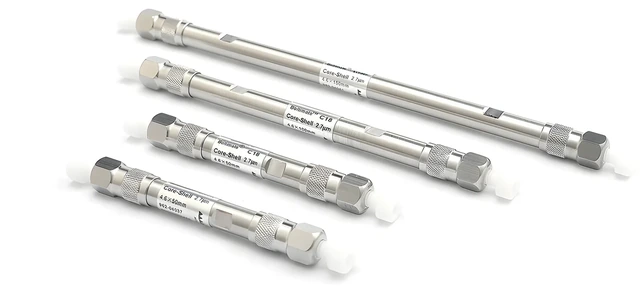
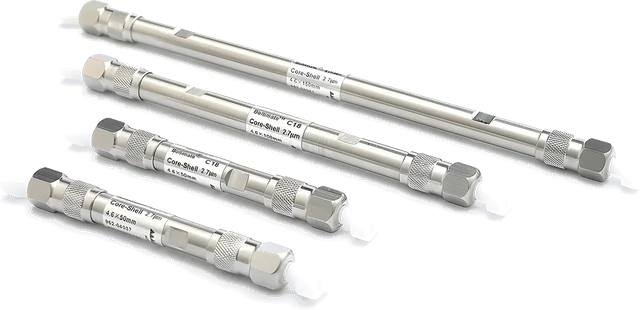
Home products: 8 cards (4 + 4, two per row on phones), Bio-Techne and CELLiST added, every photo transparent
The Columns photo is cut out (no white box); Flash is replaced by Welch vials & syringe filters, whose photo is a clean cut-out.

Changed region(s): [[0.0, 0.0, 0.9688, 0.9931]]

diff --git a/index.html b/index.html
@@ -111,11 +111,13 @@
       <div class="sec-cta"><p class="intro">Chromatography, bioprocess and analytical systems from the manufacturers we represent.</p><a href="products.html" class="btn btn-primary btn-lg">All products <svg><use href="#ic-arrow"/></svg></a></div>
     </div>
     <div class="pp">
-      <a href="cat-hplc-uhplc-gc-columns.html" class="pp-card" style="--c:#DCE6FA"><i></i><img class="blend" src="images/products/sm/columns.webp" alt="Chromatography Columns" loading="lazy"><small>Welch Materials</small><strong>Chromatography Columns</strong><span>Welch HPLC columns are built on advanced particle surface modification.</span><em>Read more <svg><use href="#ic-arrow"/></svg></em></a>
+      <a href="cat-hplc-uhplc-gc-columns.html" class="pp-card" style="--c:#DCE6FA"><i></i><img class="" src="images/products/sm/columns.webp" alt="Chromatography Columns" loading="lazy"><small>Welch Materials</small><strong>Chromatography Columns</strong><span>Welch HPLC columns are built on advanced particle surface modification.</span><em>Read more <svg><use href="#ic-arrow"/></svg></em></a>
       <a href="cat-biologics-characterization.html" class="pp-card" style="--c:#E3DFFA"><i></i><img class="" src="images/products/sm/stunner.webp" alt="Bio Instruments" loading="lazy"><small>Unchained Labs · FlowCam · RainSure</small><strong>Bio Instruments</strong><span>Helping biologics and gene therapy researchers break free from tools that just don’t cut it.</span><em>Read more <svg><use href="#ic-arrow"/></svg></em></a>
       <a href="cat-preparative-flash-dac.html" class="pp-card" style="--c:#D6EBF7"><i></i><img class="" src="images/products/sm/lc.webp" alt="Preparative HPLC &amp; DAC Column" loading="lazy"><small>Welch Materials</small><strong>Preparative HPLC &amp; DAC Column</strong><span>Welch Preparative Chromatography Systems are engineered for exceptional purification performance.</span><em>Read more <svg><use href="#ic-arrow"/></svg></em></a>
       <a href="cat-bioprocess-systems.html" class="pp-card" style="--c:#E2E7F3"><i></i><img class="" src="images/products/sm/oligo.webp" alt="Oligonucleotide Synthesizer" loading="lazy"><small>Inscinstech</small><strong>Oligonucleotide Synthesizer</strong><span>Unique AutoOligo® 25–150, a large-scale bench and pilot synthesizer.</span><em>Read more <svg><use href="#ic-arrow"/></svg></em></a>
-      <a href="cat-preparative-flash-dac.html" class="pp-card" style="--c:#D6EBF7"><i></i><img class="round" src="images/products/sm/flash.webp" alt="Flash Chromatography" loading="lazy"><small>Welch Materials</small><strong>Flash Chromatography</strong><span>WelFlash® cartridges are engineered for fast and efficient preparative chromatography.</span><em>Read more <svg><use href="#ic-arrow"/></svg></em></a>
+      <a href="cat-reagents-elisa.html" class="pp-card" style="--c:#E3DFFA"><i></i><img class="" src="images/products/sm/biotechne.webp" alt="Bio-Techne antibodies and ELISA kits" loading="lazy"><small>Bio-Techne</small><strong>Reagents &amp; ELISA Kits</strong><span>R&amp;D Systems antibodies, proteins and immunoassays for research and bioprocess.</span><em>Read more <svg><use href="#ic-arrow"/></svg></em></a>
+      <a href="cat-lab-consumables-equipment.html" class="pp-card" style="--c:#D6EBF7"><i></i><img class="" src="images/products/sm/consumables.webp" alt="Welch vials and syringe filters" loading="lazy"><small>Welch Materials</small><strong>Vials &amp; Syringe Filters</strong><span>Welch sample vials, caps and syringe filters for everyday chromatography work.</span><em>Read more <svg><use href="#ic-arrow"/></svg></em></a>
+      <a href="cat-cell-culture-media-feeds.html" class="pp-card" style="--c:#F6E1E6"><i></i><img class="" src="images/products/sm/cellist.webp" alt="Ajinomoto CELLiST cell culture media" loading="lazy"><small>Ajinomoto CELLiST</small><strong>Cell Culture Media &amp; Feeds</strong><span>CELLiST basal media and feeds for CHO-based antibody production.</span><em>Read more <svg><use href="#ic-arrow"/></svg></em></a>
       <a href="cat-bioprocess-systems.html" class="pp-card" style="--c:#DCE6FA"><i></i><img class="" src="images/products/sm/fplc.webp" alt="Protein Purification System (FPLC)" loading="lazy"><small>Inscinstech</small><strong>Protein Purification System (FPLC)</strong><span>The AutoPure Protein Purification System is designed for laboratory-scale biopharmaceutical purification.</span><em>Read more <svg><use href="#ic-arrow"/></svg></em></a>
     </div>
   </div>

diff --git a/home-2.css b/home-2.css
@@ -266,7 +266,7 @@
 /* ############ Picked designs: products A, categories A, about A, partners B, contact A ############ */
 
 /* ---------- Products: pop-out cards ---------- */
-.pp { display: grid; grid-template-columns: repeat(3, 1fr); gap: 86px 18px; padding-top: 64px; }
+.pp { display: grid; grid-template-columns: repeat(4, 1fr); gap: 86px 18px; padding-top: 64px; }
 .pp-card { position: relative; display: flex; flex-direction: column; padding: 132px 26px 26px; border-radius: 26px; background: #fff; border: 1px solid #E3E9F6; transition: background .35s, border-color .35s, transform .45s var(--ease), box-shadow .45s var(--ease); }
 .pp-card i { position: absolute; left: 50%; top: -44px; width: 168px; height: 168px; border-radius: 50%; transform: translateX(-50%); background: var(--c, #DCE6FA); transition: transform .5s var(--ease), background .35s; }
 .pp-card img { position: absolute; left: 50%; top: -64px; width: 190px; height: 196px; object-fit: contain; transform: translateX(-50%); filter: drop-shadow(0 18px 16px rgba(13, 26, 69, .22)); transition: transform .55s var(--ease); }
@@ -367,7 +367,13 @@
   .pl-panel img { height: 200px; }
 }
 @media (max-width: 640px) {
-  .pp { grid-template-columns: 1fr; gap: 80px; }
+  .pp { gap: 64px 12px; padding-top: 48px; }
+  .pp-card { padding: 92px 14px 16px; border-radius: 20px; }
+  .pp-card i { top: -32px; width: 112px; height: 112px; }
+  .pp-card img { top: -46px; width: 132px; height: 136px; }
+  .pp-card img.round { top: -32px; width: 112px; height: 112px; }
+  .pp-card strong { font-size: 15.5px; }
+  .pp-card span { font-size: 12.5px; }
   .kc { grid-template-columns: 1fr; }
   .kc-card { min-height: 190px; }
   .ab-photo b { right: 0; }
